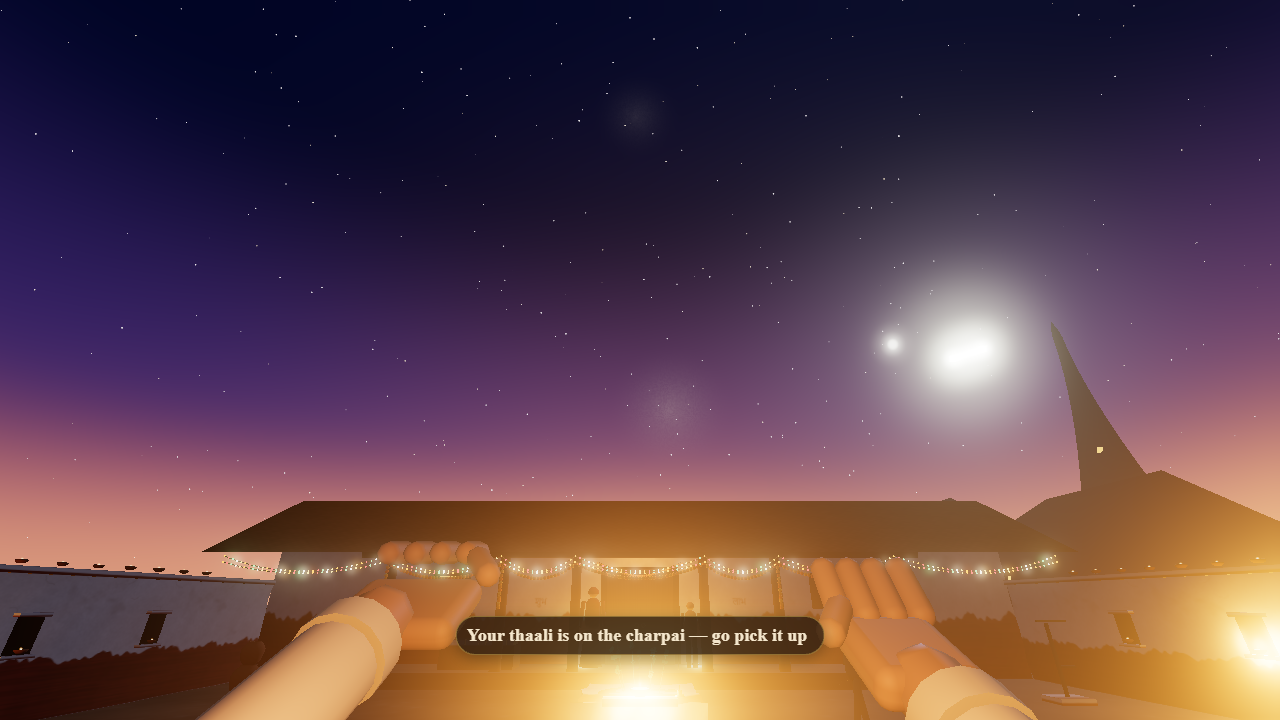
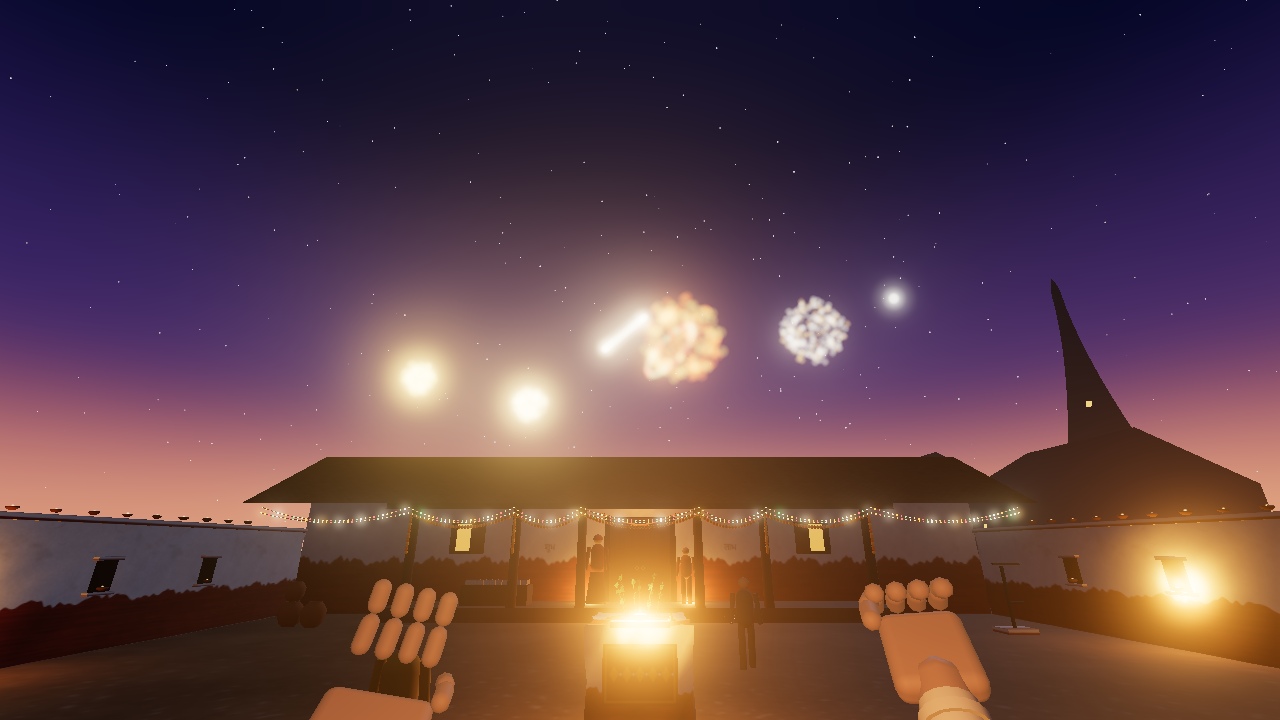
test: capture a real sky show and anar fountain

diff --git a/src/world/Sky.ts b/src/world/Sky.ts
@@ -27,9 +27,10 @@ function spireRadius(y: number): number {
 }
 const SOUND_SPEED = 343;
 /** Rockets that can be climbing or bursting at the same time. */
-const BURST_SLOTS = 4;
+/** Shells that can be climbing or bursting at the same time; a salvo of six needs room for all of them. */
+const BURST_SLOTS = 8;
 /** Most particles one burst can have. */
-const BURST_MAX = 200;
+const BURST_MAX = 240;
 /** Glowing trail particles behind each rising rocket. */
 const TRAIL = 14;
 /** Seconds between the trail samples, so the trail is about TRAIL * TRAIL_STEP long in time. */
@@ -41,6 +42,10 @@ const PARTICLES = BURST_SLOTS * SLOT_SIZE;
 /** Launch sites lie this far (metres) from the village centre, on the fields around it. */
 const LAUNCH_NEAR = 90;
 const LAUNCH_FAR = 170;
+/** Brightness of each burst particle relative to its colour; keeps hundreds of additive sparks from saturating to white. */
+const BURST_GAIN = 0.6;
+/** Half-width, in radians, of the arc a salvo's launch fields are spread across around its aim. */
+const SALVO_SPREAD = 0.45;
 /** Lowest burst height and the spread above it, in metres. */
 const APEX_MIN = 40;
 const APEX_RANGE = 30;
@@ -76,9 +81,9 @@ interface ShapeSpec {
   drag: number;
 }
 const SHAPES: Record<FireworkShape, ShapeSpec> = {
-  peony: { count: [130, 190], speed: [6, 10], life: [2.6, 3.0], gravity: 3, drag: 0.6 },
-  willow: { count: [110, 160], speed: [3, 6.5], life: [4.0, 4.6], gravity: 2.2, drag: 1.1 },
-  ring: { count: [90, 120], speed: [7, 8], life: [2.4, 2.7], gravity: 3, drag: 0.6 },
+  peony: { count: [180, 230], speed: [8, 13], life: [2.6, 3.0], gravity: 3, drag: 0.6 },
+  willow: { count: [150, 200], speed: [4, 8], life: [4.0, 4.6], gravity: 2.2, drag: 1.1 },
+  ring: { count: [130, 160], speed: [9, 10], life: [2.4, 2.7], gravity: 3, drag: 0.6 },
 };
 const SHAPE_NAMES: FireworkShape[] = ['peony', 'willow', 'ring'];
 
@@ -217,6 +222,26 @@ function gableRoof(w: number, h: number, d: number): THREE.BufferGeometry {
   g.setAttribute('position', new THREE.Float32BufferAttribute(v, 3));
   g.computeVertexNormals();
   return g;
+}
+
+/**
+ * A soft round sprite for the burst particles: a bright core fading to nothing at the edge, so each spark reads as a
+ * point of light rather than a square.
+ */
+function sparkSprite(): THREE.CanvasTexture {
+  const canvas = document.createElement('canvas');
+  canvas.width = 64;
+  canvas.height = 64;
+  const ctx = canvas.getContext('2d');
+  if (ctx) {
+    const g = ctx.createRadialGradient(32, 32, 0, 32, 32, 32);
+    g.addColorStop(0, 'rgba(255,255,255,1)');
+    g.addColorStop(0.35, 'rgba(255,255,255,0.8)');
+    g.addColorStop(1, 'rgba(255,255,255,0)');
+    ctx.fillStyle = g;
+    ctx.fillRect(0, 0, 64, 64);
+  }
+  return new THREE.CanvasTexture(canvas);
 }
 
 /** Night sky, horizon silhouettes and the festival firework show; add once and register with the engine. */
@@ -510,7 +535,8 @@ export class Sky implements Updatable {
       geo,
       new THREE.PointsMaterial({
         vertexColors: true,
-        size: 2.0,
+        map: sparkSprite(),
+        size: 4.2,
         sizeAttenuation: true,
         transparent: true,
         depthWrite: false,
@@ -522,15 +548,41 @@ export class Sky implements Updatable {
     scene.add(points);
   }
 
+  /**
+   * Fires a salvo of six shells at once, a mix of peony, willow and ring, from six free slots. The launch fields are
+   * spread about the given yaw (radians, 0 is straight ahead down -z), so the shells fall inside a view turned that way.
+   */
+  salvo(aim: number): void {
+    const shapes: FireworkShape[] = ['peony', 'willow', 'ring', 'peony', 'ring', 'willow'];
+    for (const shape of shapes) {
+      const slot = this.rockets.find((r) => !r.active);
+      if (slot) this.launch(slot, shape, aim);
+    }
+  }
+
+  /**
+   * Advances the rockets and bursts by `seconds` of game time in fixed steps, without waiting for frames. The debug
+   * hook uses it so a salvo is already open when a slow software-rendered frame is drawn.
+   */
+  advance(seconds: number): void {
+    const step = 1 / 30;
+    for (let t = 0; t < seconds; t += step) this.stepRockets(step);
+  }
+
+  /** How many shells are bursting right now, that is, opened and not yet faded; used to time a capture. */
+  burstingCount(): number {
+    return this.rockets.filter((r) => r.active && !r.rising).length;
+  }
+
   /** Starts a rocket from a field 90 to 170 m out, climbing to a burst 40 to 70 m up over the village. */
-  private launch(b: Rocket): void {
-    const a = Math.random() * Math.PI * 2;
+  private launch(b: Rocket, shape?: FireworkShape, aim?: number): void {
+    const a = aim === undefined ? Math.random() * Math.PI * 2 : aim + between(-SALVO_SPREAD, SALVO_SPREAD);
     const dist = between(LAUNCH_NEAR, LAUNCH_FAR);
     b.start.set(Math.sin(a) * dist, 0, -Math.cos(a) * dist);
     // The burst opens a little off the launch line, so the rockets do not all rise on one column.
     b.apex.set(b.start.x + between(-6, 6), between(APEX_MIN, APEX_MIN + APEX_RANGE), b.start.z + between(-6, 6));
     b.rise = between(RISE_MIN, RISE_MIN + RISE_RANGE);
-    b.shape = pick(SHAPE_NAMES);
+    b.shape = shape ?? pick(SHAPE_NAMES);
     b.age = 0;
     b.rising = true;
     b.active = true;
@@ -664,9 +716,9 @@ export class Sky implements Updatable {
         this.burstPos[p] += this.burstVel[p] * dt;
         this.burstPos[p + 1] += this.burstVel[p + 1] * dt;
         this.burstPos[p + 2] += this.burstVel[p + 2] * dt;
-        this.burstCol[p] = this.burstBase[p] * f;
-        this.burstCol[p + 1] = this.burstBase[p + 1] * f;
-        this.burstCol[p + 2] = this.burstBase[p + 2] * f;
+        this.burstCol[p] = this.burstBase[p] * f * BURST_GAIN;
+        this.burstCol[p + 1] = this.burstBase[p + 1] * f * BURST_GAIN;
+        this.burstCol[p + 2] = this.burstBase[p + 2] * f * BURST_GAIN;
       }
       if (b.age >= b.life) {
         // Clear the colours so the dead particles vanish under additive blending.

diff --git a/tests/e2e/smoke.spec.ts b/tests/e2e/smoke.spec.ts
@@ -42,8 +42,10 @@ const AFTER_BURST_MS = 1500;
 const HELD_SETTLE_MS = 1500;
 /** Downward tilt in radians: a cracker 3 m ahead sits about 28° below the eye, so this centres it in the view. */
 const LOOK_DOWN = -0.5;
-/** Upward tilt in radians for the sky shot: about 25 degrees, so a burst 30 to 40 m up sits in the upper view. */
-const SKY_LOOK_UP = 0.44;
+/** Upward tilt in radians for the sky shot: about 20 degrees, so shells bursting 40 to 70 m up sit in the upper view. */
+const SKY_LOOK_UP = 0.35;
+/** Shells that must be bursting together before the sky shot is taken, so the frame shows a real show. */
+const SKY_SHOT_BURSTS = 5;
 
 /**
  * Records every console error and uncaught page error. Font requests are answered locally so the run does not depend
@@ -159,19 +161,22 @@ test('the debug hook places, lights and fires crackers', async ({ page }) => {
   expect(errors).toEqual([]);
 });
 
-test('the sky show is shot from a tilted view during a burst', async ({ page }) => {
+test('the sky show is shot from a tilted view during a salvo', async ({ page }) => {
   const errors = await watchErrors(page);
   await page.goto('/?debug');
   await startFromIntro(page);
 
-  // A rocket 3 m ahead with the view tilted up to the sky. The burst is captured as soon as the game counts it.
+  // Look up 20 degrees and fire a salvo aimed the same way, so the shells burst in the view.
   await page.evaluate((pitch: number) => {
     const d = window.__diwali!;
     d.teleport(0, 6, 0, pitch);
-    d.place('rocket');
+    d.skyShow(0);
   }, SKY_LOOK_UP);
-  await page.evaluate(() => window.__diwali!.lightAll());
-  await page.waitForFunction(() => window.__diwali!.state().burstCount >= 1, undefined, { timeout: BURST_TIMEOUT_MS });
+  // Software WebGL is slow, so the wait polls in short steps until several shells are open at once, then shoots.
+  await page.waitForFunction((n: number) => window.__diwali!.skyBursting() >= n, SKY_SHOT_BURSTS, {
+    timeout: BURST_TIMEOUT_MS,
+    polling: 100,
+  });
   const sky = await page.screenshot({ path: 'screenshots/sky.png' });
 
   expect((await pixelStats(page, sky)).mean).toBeGreaterThan(MIN_MEAN_LUMINANCE);

diff --git a/src/Game.ts b/src/Game.ts
@@ -48,6 +48,11 @@ import { debugRequested, installDebugHook } from './debugHook';
 
 /** Niche indices (into the aangan diya spots) that hold a real lit lamp instead of a decorative one. */
 const LIT_NICHES = [2, 5, 9];
+/**
+ * Game seconds the debug sky show is fast-forwarded: past the longest rocket climb (1.3 s) and into the first second of
+ * the bursts, so the sparks have spread into rings and fans rather than a single flash.
+ */
+const DEBUG_SKY_LEAD_SECONDS = 2.1;
 /** Seconds the intro card takes to fade out, during which the player walks through the gate. */
 const INTRO_SECONDS = 2.5;
 /** Metres the player walks forward through the gate after the intro is dismissed. */
@@ -306,6 +311,8 @@ export class Game {
         teleport: (x, z, yaw, pitch) => this.debugTeleport(x, z, yaw, pitch),
         state: () => ({ ...this.state }),
         pickupAll: () => this.debugPickupAll(),
+        skyShow: (yaw) => this.debugSkyShow(yaw),
+        skyBursting: () => this.sky.burstingCount(),
       });
     }
   }
@@ -690,6 +697,15 @@ export class Game {
     this.hands.holdRight(this.agarbatti.object);
     this.agarbattiLit = true;
     this.agarbatti.light();
+  }
+
+  /**
+   * Debug hook: fires a salvo around the yaw and fast-forwards past the climb, so the shells are already bursting
+   * for the next frame. Software WebGL draws about one frame a second, so a real climb would take half a minute.
+   */
+  private debugSkyShow(yaw: number): void {
+    this.sky.salvo(yaw);
+    this.sky.advance(DEBUG_SKY_LEAD_SECONDS);
   }
 
   /** Debug hook: lights every ground cracker that is still unlit. */

diff --git a/src/debugHook.ts b/src/debugHook.ts
@@ -16,6 +16,10 @@ export interface DiwaliDebug {
   state(): PlayerState;
   /** Picks up the thaali with four crackers on it, and holds the agarbatti already lit in the right hand. */
   pickupAll(): void;
+  /** Fires a salvo of six neighbour shells at once, a mix of peony, willow and ring, aimed around the yaw (radians). */
+  skyShow(yaw: number): void;
+  /** How many shells are bursting right now; a capture polls this to catch the bright window. */
+  skyBursting(): number;
 }
 
 declare global {
